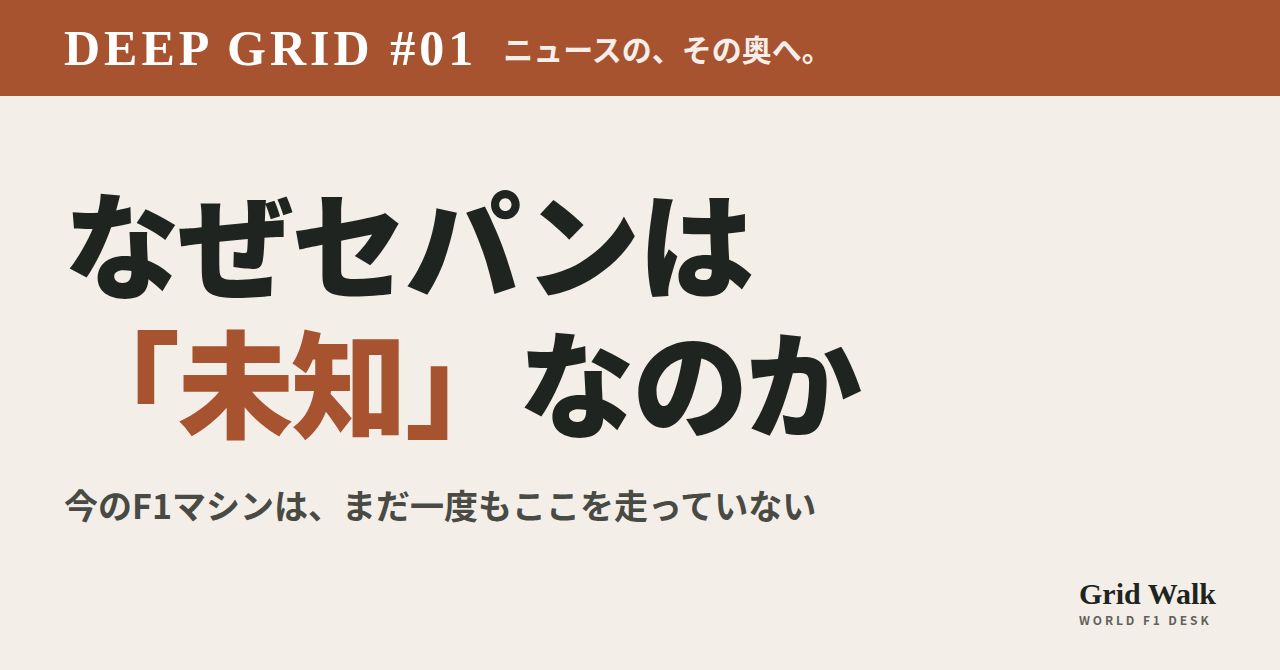
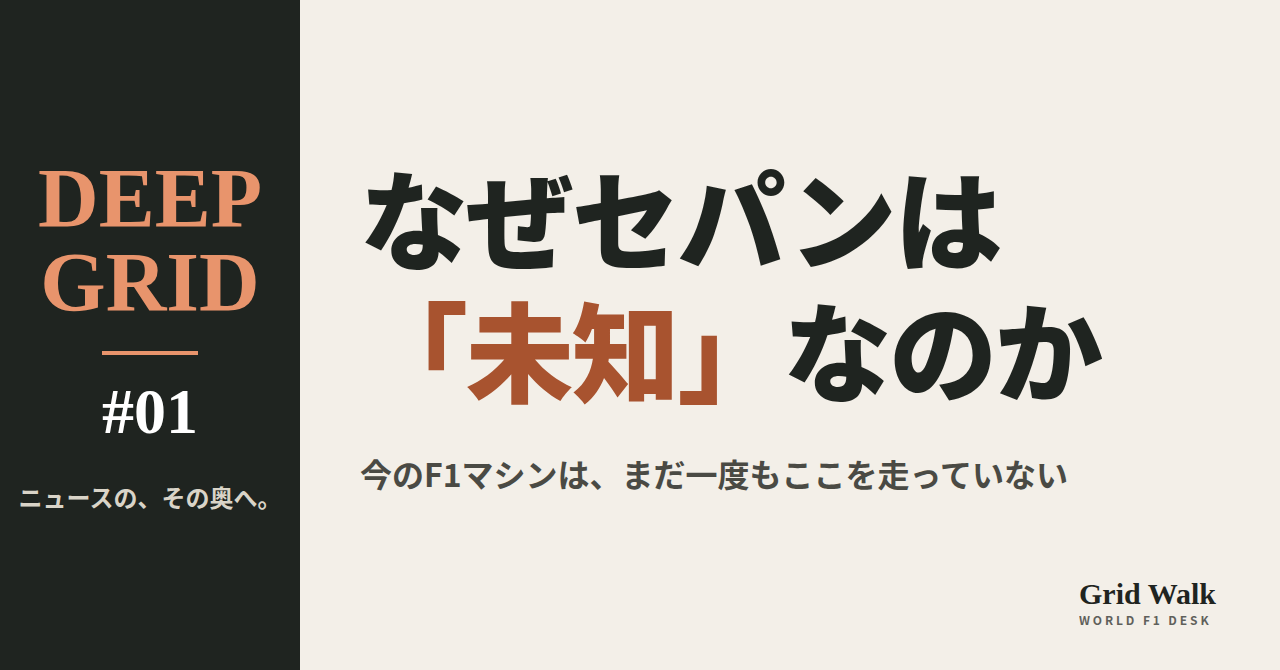
DEEP header: paper + black pillar (owner's choice D); template for next issues
Claude-Session: https://claude.ai/code/session_01AbprJDCivhn4G6aSdDSkTK

diff --git a/tools/deep_eye_template.html b/tools/deep_eye_template.html
@@ -1,0 +1,10 @@
+<!doctype html><html><head><meta charset="utf-8"><style>body{margin:0}.c{width:1280px;height:670px;position:relative;overflow:hidden;font-family:'Noto Sans CJK JP',sans-serif}
+.brand{position:absolute;right:64px;bottom:42px;font-family:Georgia,serif;font-size:30px;font-weight:700}.brand small{display:block;font-family:'Noto Sans CJK JP';font-size:12px;letter-spacing:.24em;font-weight:700;opacity:.7}
+.paper{background:#F3EFE8;color:#1F2420}.paper em{font-style:normal;color:#A8532F}
+.dark{background:#1F2420;color:#fff}.dark em{font-style:normal;color:#FFB089}
+.pil{position:absolute;left:0;top:0;width:300px;height:670px;display:flex;flex-direction:column;align-items:center;justify-content:center;font-family:Georgia,serif;font-weight:700}
+h1{position:absolute;left:360px;top:150px;margin:0;font-weight:900;font-size:108px;line-height:1.22;white-space:nowrap;letter-spacing:-.02em}
+.sub{position:absolute;left:360px;top:450px;font-size:32px;font-weight:700}
+.pil{background:#1F2420;color:#E8946C}.pil b{font-size:84px;line-height:1;text-align:center}.pil i{font-style:normal;font-size:64px;color:#fff;margin-top:26px;padding-top:20px;border-top:4px solid #E8946C}
+.pil small{font-family:'Noto Sans CJK JP';font-size:24px;color:#D9D4C8;margin-top:30px;font-weight:700}
+.sub{color:#4a4a44}</style></head><body><div class="c paper"><div class="pil"><b>DEEP<br>GRID</b><i>#01</i><small>ニュースの、その奥へ。</small></div><h1>なぜセパンは<br><em>「未知」</em>なのか</h1><div class="sub">今のF1マシンは、まだ一度もここを走っていない</div><div class="brand">Grid Walk<small>WORLD F1 DESK</small></div></div></body></html>
